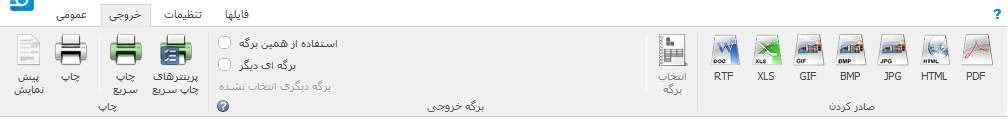
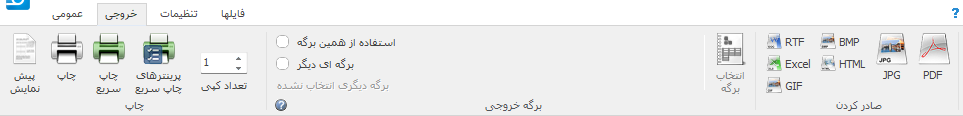
update advance page and start cardpay edit

diff --git a/docs/source/window-bank.rst b/docs/source/window-bank.rst
@@ -21,7 +21,7 @@
 
 .. _bank_index:
 
-|newflag| انتخاب انبار
+انتخاب انبار
 ```````````````````````````
 توسط گزینه اول و سمت راست پنجره امکان نمایش انبار های مختلف وجود دارد، با انتخاب هر انبار تنها محتوای داخل آن انبار نمایش داده خواهد شد و جستجو نیز در میان همان انبار انجام میشود، برای نمایش کل انبارها و جستجو بین همه آنها کافیست این گزینه را روی <همه> تنظیم نمایید، برای مدیریت بیشتر انبار به قسمت :ref:`منوی پنجره<bank_menu>` مراجعه نمایید.
 
@@ -36,7 +36,7 @@
 
 **محاسبه خودکار قیمت فروش :** برای وارد کردن قیمت فروش می توانید از امکان محاسبه خودکار آن استفاده کنید، به اینصورت که بعد از نوشتن قیمت خرید و زدن کلید "تب" به فیلد بعدی منتقل می شوید که در کنار آن % وجود دارد، در این فیلد با نوشتن درصد افزایش قیمت یا سود و زدن کلید "اینتر" ( :code:`Enter` ) یا کلیک بر روی فلش کنار آن درصد نوشته شده به قیمت خرید افزوده می شود و در کادر قیمت فروش نوشته خواهد شد.
 
-|newflag| **∞**: توسط این گزینه میتوانید مشخص کنید که کالا/خدمات انتخاب شده دارای مقدار نامحدود است و با فروش آن مقدارش کم نمیشود، برای مثال کارهای خدماتی ممکن است از همین نوع باشند.
+**∞**: توسط این گزینه میتوانید مشخص کنید که کالا/خدمات انتخاب شده دارای مقدار نامحدود است و با فروش آن مقدارش کم نمیشود، برای مثال کارهای خدماتی ممکن است از همین نوع باشند.
 
 **ویرایش کالا یا خدمات :** برای این کار کافیست کالای مورد نظر را انتخاب نموده ، فیلد های مورد نظر را که در بالای لیست میباشد ویرایش کرده و :code:`ذخیره` را انتخاب نمایید .
 
@@ -171,9 +171,9 @@
     :alt:  منوی پنجره
     :align: center
 
-|newflag| **تغییر نام انبار**: توسط این گزینه میتوانید نام انباری که در قسمت انبار انتخاب شده است را تغییر دهید، پس از انتخاب این گزینه پنجره ای برای وارد کردن نام جدید باز خواهد شد.
+**تغییر نام انبار**: توسط این گزینه میتوانید نام انباری که در قسمت انبار انتخاب شده است را تغییر دهید، پس از انتخاب این گزینه پنجره ای برای وارد کردن نام جدید باز خواهد شد.
 
-|newflag| **انتقال به انبار دیگر**: این گزینه برای انتقال مورد انتخابی کنونی به انباری دیگر است، پس از انتخاب، پنجره ای برای انتخاب انبار مقصد نمایش داده خواهد شد.
+**انتقال به انبار دیگر**: این گزینه برای انتقال مورد انتخابی کنونی به انباری دیگر است، پس از انتخاب، پنجره ای برای انتخاب انبار مقصد نمایش داده خواهد شد.
 
 **مرتب سازی :** در منوی پنجره میتوانید توسط دو گزینه مرتب سازی اطلاعات انبار را بر اساس کد صعودی و نزولی مرتب نمایید .
 
@@ -193,7 +193,7 @@
 
 **گزارش کمبود موجودی :** این گزینه گزارشی از کالا/خدماتی که تعداد موجودی آنها در انبار کمتر از حداقل موجودی است نمایش می هد.
 
-|newflag| **گزارش تامین کمبور موجودی**: این گزینه گزارشی از مقدار کمبود موجودی از فیلد "حداقل موجودی" را نشان میدهد و هزینه تهیه هر قلم و جمع نهایی اقلام را نیز محاسبه خواهد کرد. برای مثال اگر حداقل موجودی یک کالا را 50 عدد تنظیم کرده باشید و هم اکنون 30 عدد از آن در انبار باقی مانده باشد، در این گزارش مقدار کمبود موجودی را 20 عدد محاسبه و علاوه بر نمایش قیمت خرید، آن را در این کمبود موجودی ضرب میکند و نمایش میدهد. امکان تغییر فیلد قیمت نیز در گزارش وجود دارد.
+**گزارش تامین کمبور موجودی**: این گزینه گزارشی از مقدار کمبود موجودی از فیلد "حداقل موجودی" را نشان میدهد و هزینه تهیه هر قلم و جمع نهایی اقلام را نیز محاسبه خواهد کرد. برای مثال اگر حداقل موجودی یک کالا را 50 عدد تنظیم کرده باشید و هم اکنون 30 عدد از آن در انبار باقی مانده باشد، در این گزارش مقدار کمبود موجودی را 20 عدد محاسبه و علاوه بر نمایش قیمت خرید، آن را در این کمبود موجودی ضرب میکند و نمایش میدهد. امکان تغییر فیلد قیمت نیز در گزارش وجود دارد.
 
 .. image:: images/bank_report_supply.png
     :alt: گزارش انبار
@@ -201,4 +201,4 @@
 
 |
 
-|newflag| **نمایش ستون واحد در گزارش**: توسط این گزینه میتوانید ستون "واحد کالا" را در گزارش انبار مخفی یا نمایان کنید.
+**نمایش ستون واحد در گزارش**: توسط این گزینه میتوانید ستون "واحد کالا" را در گزارش انبار مخفی یا نمایان کنید.

diff --git a/docs/source/window-settings.rst b/docs/source/window-settings.rst
@@ -100,7 +100,7 @@
 
 **حذف سابقه فایلهای باز شده :** برای پاک کردن لیست فایل های باز شده که در منوی اصلی و پنجره شروع نمایش داده می شوند میتوانید از این گزینه استفاده نمایید.
 
-|newflag| **نمایش پوشه فایلهای پشتیبان :** نرم افزار بصورت خودکار 10 ذخیره آخر یک فایل را در یک پوشه ذخیره میکند تا در صورت بروز هر مشکلی بتوانید به آن رجوع کنید.
+**نمایش پوشه فایلهای پشتیبان :** نرم افزار بصورت خودکار 10 ذخیره آخر یک فایل را در یک پوشه ذخیره میکند تا در صورت بروز هر مشکلی بتوانید به آن رجوع کنید.
 
 نامگذاری این فایلها به این صورت است که ابتدا یک شماره که مربوط به آدرس آن فایل است و برای هر آدرس یکتاست قرار میگیرد، سپس نام فایل و بعد از آن اندیس یک تا ده برای سابقه ذخیره آن فایل. توجه کنید که برای یافتن آخرین فایل به تاریخ تغییر آن فایل مراجعه نمایید و نه اندیس آن. بعبارت دیگر مثلا همیشه اندیس ده نشاندهنده آخرین ذخیره نیست.
 
@@ -177,7 +177,7 @@
 
 **قالب شماره زنی:** در این قسمت میتوانید قالبی برای شماره های صادره تنظیم نمایید، به این ترتیب که شش جزء مختلف برای شماره قابل انتخاب است که پس از انتخاب به ترتیب از چپ به راست تشکیل یک شماره واحد را میدهند.
 
-|newflag| توسط فیلد **تنظیم برای صادر کننده** میتوانید برای هر صادر کننده ای که در بخش مشخصات در پنجره اصلی تنظیم کرده اید یک قالب مخصوص تنظیم نمایید که شماره هرکدام بصورت مستقل محاسبه و نمایش داده میشود. بعد از تنظیم یک قالب برای یک صادر کننده گزینه :code:`ذخیره` را انتخاب نمایید تا برای آن صادر کننده این قالب تنظیم گردد.
+توسط فیلد **تنظیم برای صادر کننده** میتوانید برای هر صادر کننده ای که در بخش مشخصات در پنجره اصلی تنظیم کرده اید یک قالب مخصوص تنظیم نمایید که شماره هرکدام بصورت مستقل محاسبه و نمایش داده میشود. بعد از تنظیم یک قالب برای یک صادر کننده گزینه :code:`ذخیره` را انتخاب نمایید تا برای آن صادر کننده این قالب تنظیم گردد.
 
 پس از تنظیم پیشنمایشی از حالت انتخابی نمایش داده می شود و توسط گزینه "شماره بعدی" میتوانید رفتن به شماره بعدی را امتحان نمایید یا بصورت دستی شماره های بعدی را انتخاب نمایید.
 
@@ -203,7 +203,7 @@
 
 .. _setting-export:
 
-|newflag| خروجی
+خروجی
 -----------------------
 .. image:: images/setting_export.png
     :alt: شماره زنی
@@ -219,7 +219,7 @@
 
 .. _setting-sms:
 
-|newflag| سرویس پیامک
+سرویس پیامک
 -----------------------------
 در این قسمت تنظیماتی برای انتخاب نوع سرویس و خصوصیات آن وجود دارد:
 

diff --git a/docs/source/advanced.rst b/docs/source/advanced.rst
@@ -60,6 +60,49 @@
     <br><br><b>خروجی:</b><br><br>
     این قسمت از متن <span style="color:#F0F">صورتی</span> خواهد شد.</div>
 
+در زیر تعدادی از این کد رنگ ها قرار داده میشود که میتوانید براحتی از آنها استفاده نمایید:
+
+.. raw:: html
+  
+  <div style="font-size:1.2em;font-family:Consolas;font-weight:bold">
+    <table style="width: 100%;">
+      <tbody>
+        <tr>
+          <td style="color:#000">0:0:0</td>
+          <td style="color:#F00">255:0:0</td>
+          <td style="color:#0F0">0:255:0</td>
+          <td style="color:#00F">0:0:255</td>
+          <td style="color:#0FF">0:255:255</td>
+          <td style="color:#C9C">190:140:190</td>
+        </tr>
+        <tr>
+          <td style="color:#555">50:50:50</td>
+          <td style="color:#C00;">190:0:0</td>
+          <td style="color:#0C0;">0:190:0</td>
+          <td style="color:#00C;">0:0:190</td>
+          <td style="color:#F0F">255:0:255</td>
+          <td style="color:#C99">190:140:140</td>
+        </tr>
+        <tr>
+          <td style="color:#AAA">160:160:160</td>
+          <td style="color:#A00">160:0:0</td>
+          <td style="color:#0A0">0:160:0</td>
+          <td style="color:#00A">0:0:160</td>
+          <td style="color:#FF0">255:255:0</td>
+          <td style="color:#9C9">140:190:140</td>
+        </tr>
+        <tr>
+          <td style="color:#FFF; background-color:#eee">255:255:255</td>
+          <td style="color:#900;">140:0:0</td>
+          <td style="color:#090;">0:140:0</td>
+          <td style="color:#009;">0:0:140</td>
+          <td style="color:#0AF">0:160:255</td>
+          <td style="color:#99C">140:140:190</td>
+        </tr>
+      </tbody>
+    </table>
+  </div>
+
 |
 
 **کاراکتر اینتر :** در بعضی موارد لازم است بعلت کمبود فضا یا موارد دیگر یک متن چند خطی در یک خط نوشته شود ولی بتوان متن را بصورتی نوشت که در خروجی بصورت چند خط نمایش داده شوند، برای مثال ممکن است یک متن چند خطی را بخواهید درون جدول بنویسید درحالی که متن نوشته شده کم است.
@@ -165,10 +208,10 @@
    * - سطرهای [شماره ترتیب جدول]
      - تعداد سطرهای جدولی که شماره ترتیب آن مشخص شده است
      - 7
-   * - |newflag| جمع ستون [شماره جدول].عنوان ستون
+   * - جمع ستون [شماره جدول].عنوان ستون
      - جمع ستونی که عنوان آن ذکر میشود از جدولی که شماره آن ذکر میشود(در صورت نیاز به اولین جدول شماره جدول اختیاری است)
      - 45,000
-   * - |newflag| جدول [شماره جدول].جداکننده.عنوان ستون[.عنوان ستون][.عنوان ستون]...
+   * - جدول [شماره جدول].جداکننده.عنوان ستون[.عنوان ستون][.عنوان ستون]...
      - اطلاعات ستونهای انتخابی از جدول انتخابی(در صورت نیاز به اولین جدول شماره جدول اختیاری است)
      - | کالای اول | 4 | 5,000
        | کالای  دوم | 10 | 600,000

diff --git a/docs/source/window-main.rst b/docs/source/window-main.rst
@@ -85,7 +85,7 @@
 
 .. _bar-service:
 
-|newflag| سرویس
+سرویس
 ``````````````````
 برای اطلاعات بیشتر در مورد این امکان به قسمت :ref:`سرویس<service-sms>` مراجعه نمایید.
 
@@ -158,6 +158,9 @@
 
 از موارد کاربرد این گزینه میتوان به چاپ رسید درخواست با پرینتر قسمت پذیرش سفارش برای مشتری و چاپ همان رسید با پرینتر دیگری در قسمت انجام خدمت در یک مجموعه مانند رستوران نام برد.
 
+|newflag| **تعداد کپی :** ازاین گزینه برای تنظیم تعداد کپی از هر صفحه یا پرینت استفاده کنید، برای مثال برای پرینت دو نسخه از فاکتور یک برای مشتری و یکی برای فروشنده میتوانید این گزینه را روی 2 تنظیم نمایید.
+
+
 .. _bar-output-outputpage:
 
 برگه خروجی
@@ -171,12 +174,12 @@
 
 .. _bar-output-export:
 
-برگه خروجی
+صادر کردن
 ````````````
  در این گروه دستوراتی برای تبدیل خروجی برگه به فایل های پر کاربرد دیگر وجود دارد . این فرمت ها عبارتند از:
 
 * **RTF:** فرمت مربوط به متن دارای فرمت می باشد که میتوانید خروجی را در نرم افزار هایی مثل ویرایشگر های متن باز نمایید و ویرایش کنید
-* **XLS:** فرمت مربوط به صفحه گسترده نظیر نرم افزار اکسل می باشد.
+* **Excel:** فرمت های مربوط به صفحه گسترده نظیر نرم افزار اکسل با پسوند های CSV و XLS می باشد.
 * **GIF, BMP و JPG:** فرمت های تصویری.
 * **HTML:** فرمت مربوط به صفحات وب.
 * **PDF:** فرمت سند فشرده و قابل حمل.
@@ -364,8 +367,8 @@
 
 .. _qsbank:
 
-نوار دسترسی سریع انبار
-----------------------------
+|newflag| نوار دسترسی سریع انبار
+---------------------------------------
 در برخی مشاغل مانند سفارش غذا تعدادی از اقلام زیادتر از سایر موارد موجود در انبار مورد استفاده قرار میگریند و دسترسی سریع به آنها برای افزودن به فاکتور در سرعت عمل صدور فاکتور بسیار موثر خواهد بود.
 از این رو قابلیتی به نرم افزار فاکتور افزوده شده است که بتوانید لیستی از این موارد پرکاربرد را در گوشه ای از نرم افزار جای دهید و بسرعت بهمراه گزینه هایی برای انتخاب سریع تعداد برگزینید تا به فاکتور افزوده گردد.
 

diff --git a/docs/source/cardpay.rst b/docs/source/cardpay.rst
@@ -12,23 +12,23 @@
 این کار مزیت های زیادی از جمله از بین رفتن اشتباه در وارد کردن مبلغ در کارت خوان، سرعت در پرداخت، سهولت در پرداخت و ... را بدنبال دارد.
 
 
-برای استفاده از این قابلیت بعد :ref:`نصب و شناسایی کارت خوان<install-cardpay>` گزینه های زیر در مقابل قسمت قیمت نهایی قابل دسترس خواهند بود :
+برای استفاده از این قابلیت به دو گزینه مقابل قسمت قیمت نهایی قابل در قسمت پایین نرم افزار مراجعه نمایید :
 
 .. image:: images/cardpay_menu.png
     :alt: پرداخت توسط دستگاه کارت خوان
     :align: center
 
 
-در این حالت دو گزینه قابل مشاهده است:
+در این قسمت دو گزینه قابل مشاهده است:
 
 گزینه اول از سمت چپ برای **تنظیمات کارت خوان** انتخاب شده می باشد که در ادامه به آن خواهیم پرداخت،
 
-گزینه دوم برای **انجام پرداخت**، دسترسی به منوی مربوطه توسط فلش کناری و نمایش وضعیت پرداخت استفاده می شود.
+گزینه دوم برای **انجام پرداخت** و دسترسی به منوی انتخاب دستگاه کارت خوان و تنظیمات دیگر توسط فلش کناری استفاده می شود.
 |
 
 در منو ای که پس از کلیک بر روی فلش کناری گزینه پرداخت نمایش داده می شود موارد زیر وجود دارند:
 
-**لیست دستگاههای کارت خوان متصل** شده به نرم افزار در ابتدای این منو قرار میگیرند و میتوانید با انتخاب هر کدام از آنها، آن کارت خوان را بعنوان پیشفرض پرداخت تعیین نمایید تا با کلیک بر روی گزینه پرداخت، پرداخت توسط آن دستگاه انجام گردد.
+**لیست دستگاههای کارت خوان قابل انتخاب** شده به نرم افزار در ابتدای این منو قرار میگیرند و میتوانید با انتخاب هر کدام از آنها، آن کارت خوان را بعنوان پیشفرض پرداخت تعیین نمایید تا با کلیک بر روی گزینه پرداخت، پرداخت توسط آن دستگاه انجام گردد.
 
 **تبدیل به ریال :** با فعال کردن این گزینه مبلغ نهایی در 10 ضرب خواهد شد.
 

diff --git a/docs/source/service-sms.rst b/docs/source/service-sms.rst
@@ -4,7 +4,7 @@
 .. _service-sms:
 
 ==================================
-|newflag| سرویس ارسال پیامک
+سرویس ارسال پیامک
 ==================================
 
 در نرم افزار فاکتور قابلیتی قرار داده شده است که بتوانید براحتی و بصورت پیشرفته انواع پیامک های تبلیغاتی و اطلاع رسانی ارسال نمایید.

diff --git a/docs/source/file-manager.rst b/docs/source/file-manager.rst
@@ -3,7 +3,7 @@
 
 .. _file-manager:
 
-|newflag| مدیریت فایل
+مدیریت فایل
 =========================
 .. image:: images/tab_file.png
     :alt: پنجره مشتری/متقاضی

diff --git a/docs/source/calculator.rst b/docs/source/calculator.rst
@@ -3,7 +3,7 @@
 
 .. _calculator:
 
-|newflag| ماشین حساب
+ماشین حساب
 ====================
 .. image:: images/calculator.png
     :alt:  ماشین حساب
